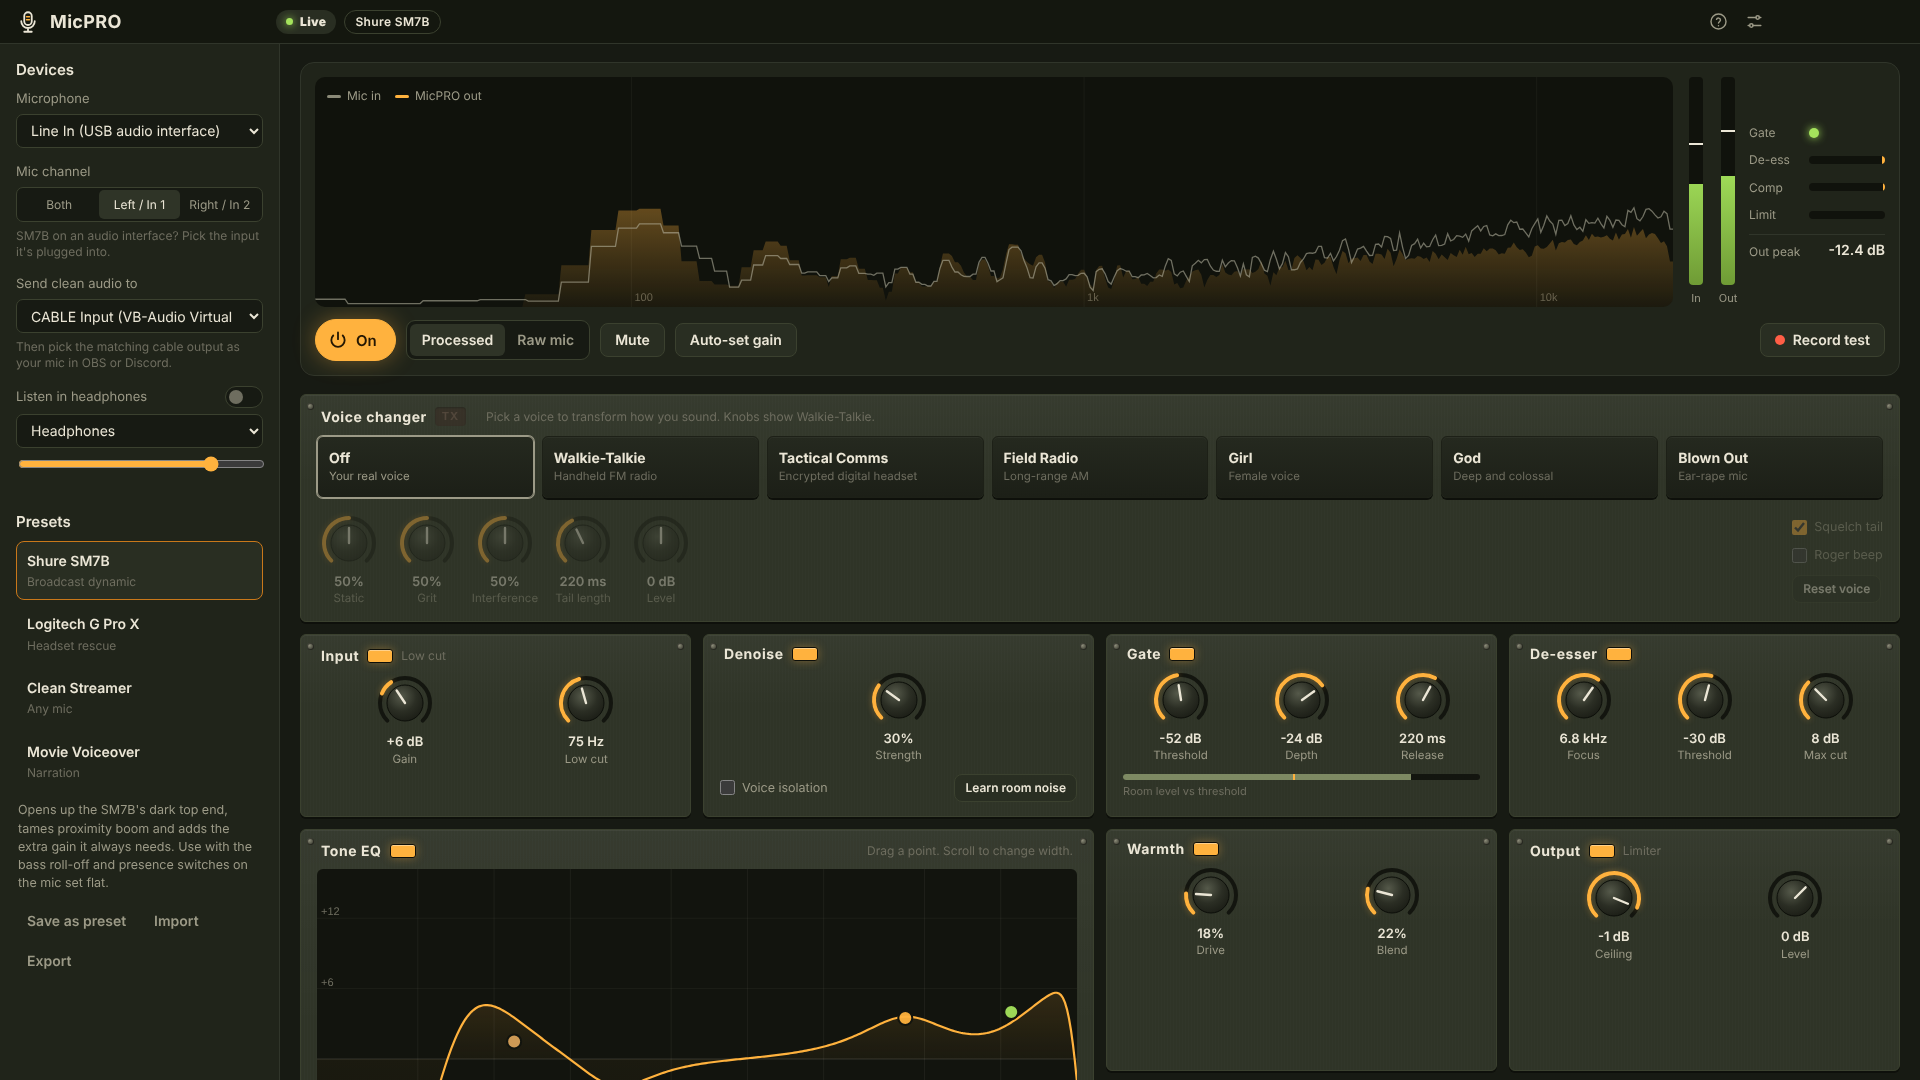
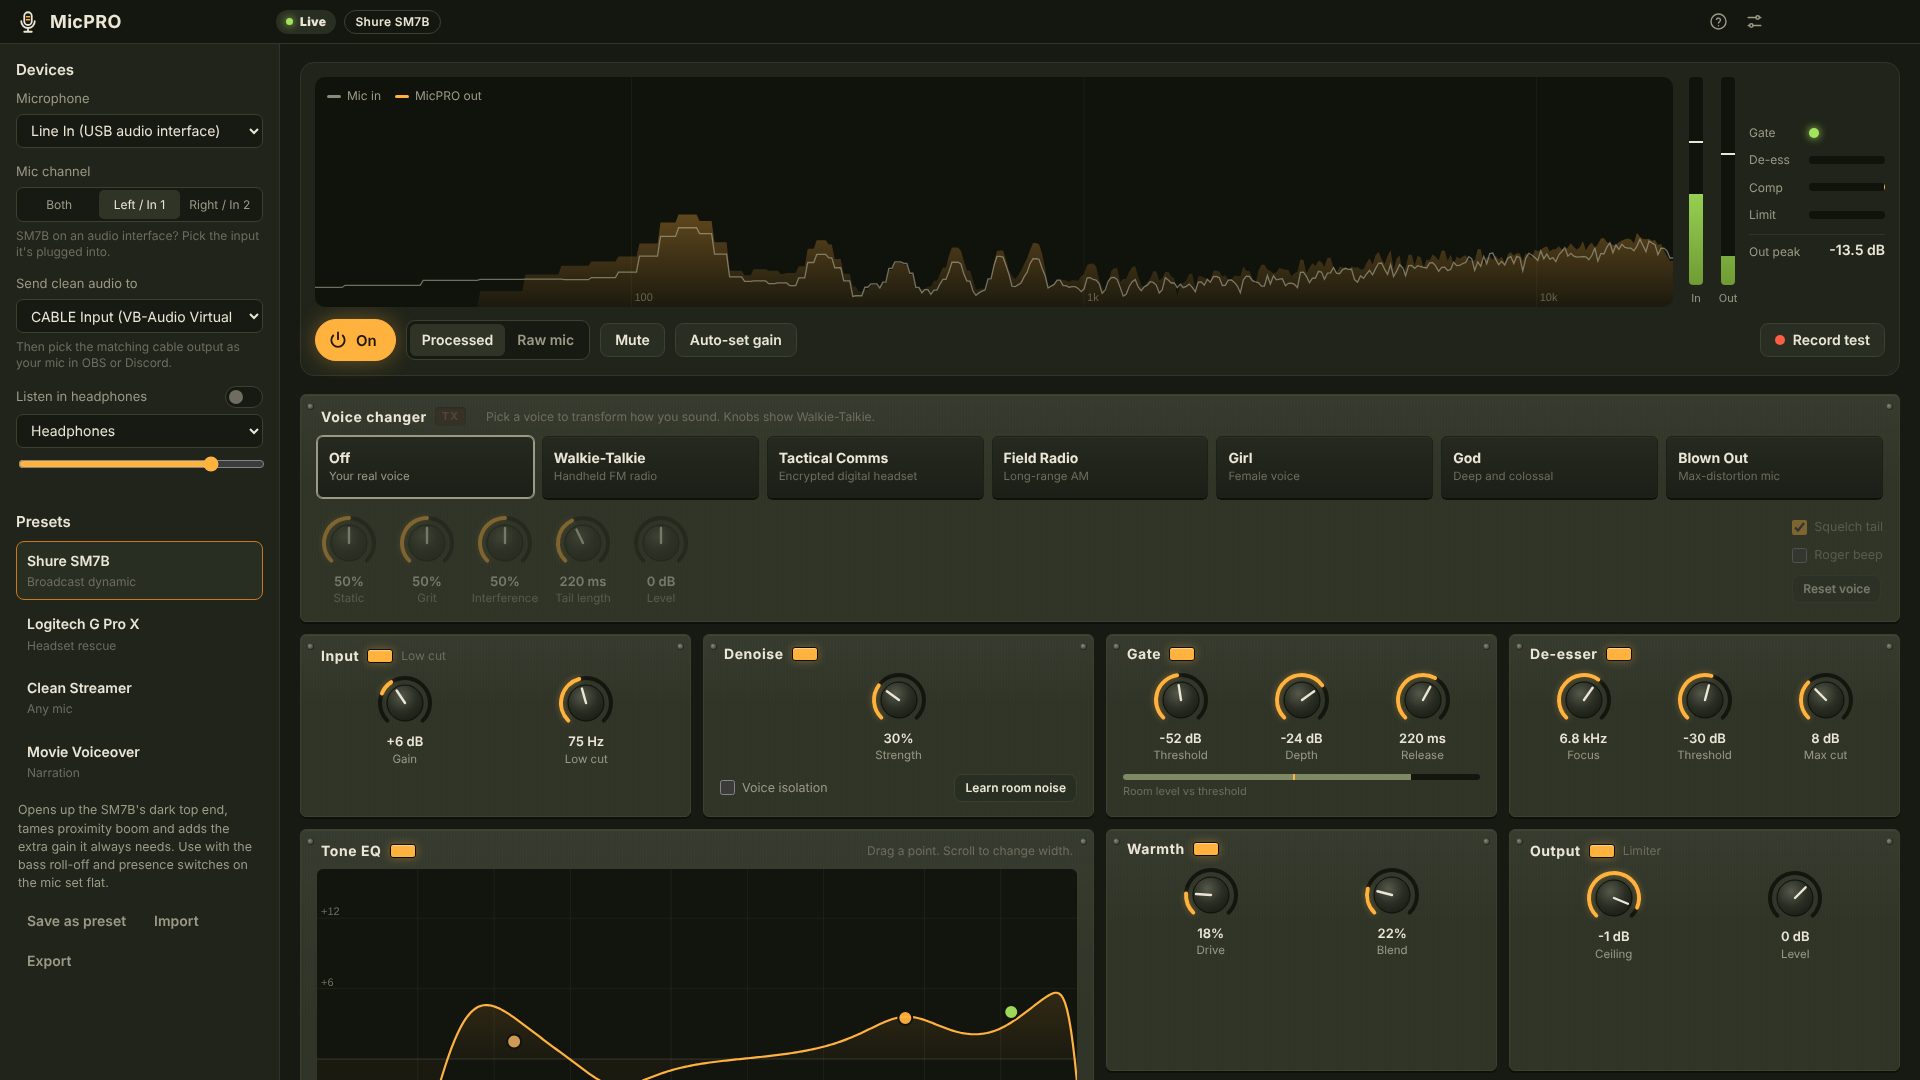
Move to Store-only distribution
- Website: all download buttons go to the Microsoft Store (STORE_URL,
  shows 'coming soon' until set); GitHub links and Mac/Linux downloads removed
- Release workflow no longer publishes free installers (manual test builds only)
- License: proprietary for future versions (1.0.0-1.3.1 remain MIT)
- Privacy policy contact points to the Store support contact
- Blown Out subtitle renamed to 'Max-distortion mic'; screenshots retaken
- STORE.md: ordered checklist for going Store-only and making the repo private

Claude-Session: https://claude.ai/code/session_01AeX4UF65ummMFYsN7wJ7bo

Changed region(s): [[0.25, 0.1528, 0.9062, 0.275], [0.875, 0.4278, 0.9062, 0.4583]]

diff --git a/index.html b/index.html
@@ -126,7 +126,8 @@
     details p { color: var(--muted); margin: 12px 0 2px; }
 
     .download { background: var(--panel); border-top: 1px solid #262a20; border-bottom: 1px solid #262a20; }
-    .dl-grid { display: grid; grid-template-columns: repeat(3, 1fr); gap: 16px; }
+    #get .dl { max-width: 520px; }
+    .store-link.soon { opacity: 0.75; cursor: default; }
     .dl { display: flex; flex-direction: column; gap: 6px; padding: 24px; border-radius: 12px; border: 1px solid var(--line); background: var(--bg); text-decoration: none; }
     .dl:hover { border-color: var(--amber-deep); }
     .dl.rec { border-color: var(--amber); }
@@ -142,7 +143,7 @@
       .chain { grid-template-columns: 1fr 1fr; }
       .chain li { border-bottom: 1px solid var(--line); }
       .chain li::after { display: none; }
-      .presets, .setup, .dl-grid, .voices { grid-template-columns: 1fr; }
+      .presets, .setup, .voices { grid-template-columns: 1fr; }
       nav .links { display: none; }
       nav .btn { margin-left: auto; }
     }
@@ -160,9 +161,8 @@
         <a href="#voices">Voice changer</a>
         <a href="#setup">Setup</a>
         <a href="#faq">FAQ</a>
-        <a href="https://github.com/g-hostproxy/MicPRO">GitHub</a>
       </div>
-      <a class="btn btn-primary" href="#download">Download</a>
+      <a class="btn btn-primary store-link" href="#get">Get MicPRO</a>
     </div>
   </nav>
 
@@ -171,13 +171,13 @@
       <h1>Make the mic you own sound like a studio.</h1>
       <p class="lede">MicPRO cleans your voice in real time before it reaches OBS, Discord or the game. Fans and keyboard noise drop out, harsh "s" sounds soften, and every callout lands at the same level. Tuned presets for the Shure SM7B and Logitech G Pro X are built in.</p>
       <div class="cta">
-        <a class="btn btn-primary" id="hero-dl" href="https://github.com/g-hostproxy/MicPRO/releases/latest/download/MicPRO-Setup.exe">
-          <svg viewBox="0 0 24 24" aria-hidden="true"><path d="M12 4v11M7 10l5 5 5-5M5 20h14" fill="none" stroke="currentColor" stroke-width="2.2" stroke-linecap="round" stroke-linejoin="round"/></svg>
-          <span>Download for Windows</span>
+        <a class="btn btn-primary store-link store-cta" href="#get">
+          <svg viewBox="0 0 24 24" aria-hidden="true"><path d="M3 5.5 10.5 4.5v7H3zM11.5 4.4 21 3v8.5h-9.5zM3 12.5h7.5v7L3 18.5zM11.5 12.5H21V21l-9.5-1.4z" fill="currentColor"/></svg>
+          <span>Get it on the Microsoft Store</span>
         </a>
         <a class="btn" href="#how">See what it does</a>
       </div>
-      <p class="alt-dl">Free and open source. Also on <a href="#download">macOS and Linux</a>. Everything runs on your PC; no account, no cloud.</p>
+      <p class="alt-dl">For Windows 10 and 11. Everything runs on your PC: no account, no cloud.</p>
     </div>
     <div>
       <div class="scope" id="scope" role="slider" tabindex="0" aria-label="Compare raw mic and MicPRO" aria-valuemin="0" aria-valuemax="100" aria-valuenow="50">
@@ -249,7 +249,7 @@
       <article class="voice"><h3>Field Radio</h3><p class="kind">Long-range AM</p><p>Boxy and buried in static, with fading, a drifting whistle and the signal breaking up.</p></article>
       <article class="voice voice-alt"><h3>Girl</h3><p class="kind">Female voice</p><p>Higher pitch and a smaller vocal tract, adjusted separately, so it reads as a different person.</p></article>
       <article class="voice voice-alt"><h3>God</h3><p class="kind">Deep and colossal</p><p>Pitched down with a sub-octave rumble, echoing through an enormous hall.</p></article>
-      <article class="voice voice-alt"><h3>Blown Out</h3><p class="kind">Ear-rape mic</p><p>Bass-boosted and clipped to the ceiling. Silent between words, brutal when you talk.</p></article>
+      <article class="voice voice-alt"><h3>Blown Out</h3><p class="kind">Max-distortion mic</p><p>Bass-boosted and clipped to the ceiling. Silent between words, brutal when you talk.</p></article>
     </div>
     <p class="more-presets">Every voice has its own knobs (pitch, formant, reverb, static and more), and a hotkey flips the voice changer on and off mid-raid.</p>
   </section>
@@ -258,22 +258,22 @@
     <h2>Set up in three steps.</h2>
     <p class="section-lede">MicPRO sends its clean audio to a virtual cable. Your apps listen to that cable instead of the raw mic.</p>
     <ol class="setup">
-      <li><h3>Install MicPRO and VB-CABLE</h3><p>Grab MicPRO below and the free <a href="https://vb-audio.com/Cable/">VB-CABLE</a> driver. Restart your PC once.</p></li>
+      <li><h3>Install MicPRO and VB-CABLE</h3><p>Get MicPRO from the Microsoft Store and the free <a href="https://vb-audio.com/Cable/">VB-CABLE</a> driver. Restart your PC once.</p></li>
       <li><h3>Route it</h3><p>In MicPRO, send clean audio to <code>CABLE Input</code>. In OBS, Discord or Tarkov, choose <code>CABLE Output</code> as your microphone.</p></li>
       <li><h3>Pick a preset and record</h3><p>Choose your mic, press Auto-set gain and talk for five seconds. Record a test take to hear raw and processed back to back.</p></li>
     </ol>
   </section>
 
-  <section class="download" id="download">
+  <section class="download" id="get">
     <div class="wrap">
-      <h2>Download MicPRO</h2>
-      <p class="section-lede">Version 1.3: lower-latency monitoring, and it remembers your devices. Free and open source under the MIT license.</p>
-      <div class="dl-grid">
-        <a class="dl" data-os="win" href="https://github.com/g-hostproxy/MicPRO/releases/latest/download/MicPRO-Setup.exe"><b>Windows</b><span>Windows 10 and 11, 64-bit installer</span><em>MicPRO-Setup.exe</em></a>
-        <a class="dl" data-os="mac" href="https://github.com/g-hostproxy/MicPRO/releases/latest/download/MicPRO-mac.dmg"><b>macOS</b><span>Apple silicon and Intel</span><em>MicPRO-mac.dmg</em></a>
-        <a class="dl" data-os="linux" href="https://github.com/g-hostproxy/MicPRO/releases/latest/download/MicPRO-linux.AppImage"><b>Linux</b><span>AppImage, most distributions</span><em>MicPRO-linux.AppImage</em></a>
-      </div>
-      <p class="alt-dl">Windows may show a SmartScreen notice because the installer isn't code-signed yet. Choose More info, then Run anyway. All builds are on the <a href="https://github.com/g-hostproxy/MicPRO/releases">releases page</a>.</p>
+      <h2>Get MicPRO</h2>
+      <p class="section-lede">Available on the Microsoft Store for Windows 10 and 11. Installs in one click, updates automatically, and no SmartScreen warnings.</p>
+      <a class="dl rec store-link" href="#get">
+        <b>Microsoft Store</b>
+        <span>Windows 10 (1809 or later) and Windows 11, 64-bit</span>
+        <em class="store-cta-text">Get it on the Microsoft Store</em>
+      </a>
+      <p class="alt-dl">To send MicPRO's voice into Discord, OBS and games, also install the free <a href="https://vb-audio.com/Cable/">VB-CABLE</a> virtual audio driver.</p>
     </div>
   </section>
 
@@ -290,21 +290,20 @@
   <footer>
     <div class="wrap">
       <span>MicPRO is an independent project and is not affiliated with Shure, Logitech or Battlestate Games.</span>
-      <span><a href="privacy.html">Privacy</a> &nbsp; <a href="https://github.com/g-hostproxy/MicPRO">Source on GitHub</a></span>
+      <a href="privacy.html">Privacy</a>
     </div>
   </footer>
 
   <script>
-    // Highlight the visitor's platform.
+    // Microsoft Store link. Paste the URL from Partner Center (Product identity > Store URL),
+    // e.g. 'https://apps.microsoft.com/detail/9XXXXXXXXXXX'. Empty = "coming soon".
+    const STORE_URL = '';
     (function () {
-      const ua = navigator.userAgent;
-      const os = /Mac/i.test(ua) ? 'mac' : /Linux/i.test(ua) && !/Android/i.test(ua) ? 'linux' : 'win';
-      const card = document.querySelector(`.dl[data-os="${os}"]`);
-      if (card) card.classList.add('rec');
-      if (os !== 'win') {
-        const hero = document.getElementById('hero-dl');
-        hero.href = card.href;
-        hero.querySelector('span').textContent = os === 'mac' ? 'Download for macOS' : 'Download for Linux';
+      for (const a of document.querySelectorAll('.store-link')) {
+        if (STORE_URL) { a.href = STORE_URL; a.target = '_blank'; a.rel = 'noopener'; continue; }
+        a.classList.add('soon');
+        if (a.classList.contains('store-cta')) a.querySelector('span').textContent = 'Coming soon to the Microsoft Store';
+        const t = a.querySelector('.store-cta-text'); if (t) t.textContent = 'Coming soon';
       }
     })();
 

diff --git a/privacy.html b/privacy.html
@@ -33,5 +33,5 @@ p,li{color:#a3a18e}strong{color:#ebe6d6}a{color:#ffb23e}.back{display:inline-blo
 <h2>Your controls</h2>
 <p>Uninstalling MicPRO removes the app and its settings. Recordings you saved stay where you put them until you delete them. You can block MicPRO&#x27;s microphone access at any time in Windows Settings &gt; Privacy &amp; security &gt; Microphone.</p>
 <h2>Contact</h2>
-<p>Questions about this policy: open an issue at <a href="https://github.com/g-hostproxy/MicPRO/issues">https://github.com/g-hostproxy/MicPRO/issues</a></p>
+<p>Questions about this policy: use the support contact on MicPRO&#x27;s Microsoft Store page.</p>
 </main></body></html>

diff --git a/app/src/renderer/voices.js b/app/src/renderer/voices.js
@@ -145,7 +145,7 @@ export const VOICES = [
   {
     id: 'loud',
     name: 'Blown Out',
-    tag: 'Ear-rape mic',
+    tag: 'Max-distortion mic',
     blurb: 'Your mic, destroyed: bass-boosted, clipped to the ceiling and crunchy. It stays silent between words. Your headphone monitor drops 12 dB while it\'s on to protect your ears.',
     controls: [
       { path: 'loudness', label: 'Loudness', min: 0, max: 100, step: 1, unit: '%' },

diff --git a/README.md b/README.md
@@ -1,7 +1,5 @@
 # MicPRO
 
-[![Total downloads](https://img.shields.io/github/downloads/g-hostproxy/MicPRO/total?label=downloads&color=ffb23e&style=for-the-badge)](https://github.com/g-hostproxy/MicPRO/releases)
-[![Latest release](https://img.shields.io/github/v/release/g-hostproxy/MicPRO?label=latest&color=a5e35c&style=for-the-badge)](https://github.com/g-hostproxy/MicPRO/releases/latest)
 [![Buy Me a Coffee](https://img.shields.io/badge/Buy%20me%20a%20coffee-support-FFDD00?style=for-the-badge&logo=buymeacoffee&logoColor=black)](https://buymeacoffee.com/g.hostproxy)
 
 Real-time microphone enhancement for streamers and video creators. MicPRO sits between your mic and OBS / Discord / the game and runs your voice through a broadcast-style chain:
@@ -51,7 +49,7 @@ npm run dist:win   # build an installer into app/dist
 
 ## Releases
 
-Bump `version` in `app/package.json` and push to `main`. `.github/workflows/release.yml` builds Windows, macOS and Linux installers and publishes them as the matching `vX.Y.Z` GitHub release. You can also run it by hand from the Actions tab. The download buttons on the website point at `releases/latest`, so they update automatically.
+MicPRO is sold on the Microsoft Store (see `STORE.md`). To ship an update, bump `version` in `app/package.json`, run the **Build Microsoft Store package** workflow, and upload the new `.appx` in Partner Center. The **Build test installers** workflow builds unsigned test installers as run artifacts; it doesn't publish anything.
 
 ## Microsoft Store
 
@@ -59,7 +57,7 @@ Bump `version` in `app/package.json` and push to `main`. `.github/workflows/rele
 
 ## Website
 
-`index.html` at the repo root is the download page. Serve it with GitHub Pages (Settings → Pages → Deploy from branch → `main` / root).
+`index.html` (with `privacy.html` and `assets/`) is the product page. Set `STORE_URL` near the bottom of `index.html` once the Store listing is live. GitHub Pages can serve it from this repo only while the repo is public or on a paid GitHub plan; otherwise host those files from a separate public repo.
 
 ## Project layout
 
@@ -77,10 +75,10 @@ app/
     dsp/processors.js      AudioWorklet DSP: denoise, gate, de-esser, radio voice, recorder
 ```
 
-MIT licensed. Not affiliated with Shure, Logitech or Battlestate Games.
+Proprietary. All rights reserved (see `LICENSE`). Not affiliated with Shure, Logitech or Battlestate Games.
 
 ## Support MicPRO
 
-MicPRO is free and open source. If it made your mic sound better, you can support development here:
+If MicPRO made your mic sound better, you can support development here:
 
 <a href="https://buymeacoffee.com/g.hostproxy"><img src="https://img.shields.io/badge/Buy%20me%20a%20coffee-FFDD00?style=for-the-badge&logo=buymeacoffee&logoColor=black" alt="Buy Me a Coffee" height="40"></a>

diff --git a/STORE.md b/STORE.md
@@ -32,9 +32,9 @@ You don't need a code-signing certificate, because Microsoft signs Store package
 
 ### Properties
 - **Category:** Music (secondary: Utilities & tools)
-- **Privacy policy URL:** `https://g-hostproxy.github.io/MicPRO/privacy.html` (needs GitHub Pages on), or `https://github.com/g-hostproxy/MicPRO/blob/main/PRIVACY.md`
-- **Website:** `https://github.com/g-hostproxy/MicPRO`
-- **Support contact:** `https://github.com/g-hostproxy/MicPRO/issues`
+- **Privacy policy URL:** the public address of `privacy.html` (for example `https://g-hostproxy.github.io/MicPRO/privacy.html`). It must stay reachable after the repo goes private; see "Going Store-only" below.
+- **Website:** the public address of `index.html`.
+- **Support contact:** an email address you're happy to show publicly. The privacy policy tells people to use this contact.
 - **System requirements:** Microphone required. Hardware: x64.
 
 ### Age ratings
@@ -100,6 +100,20 @@ Paste this:
 ## 5. Submit
 
 Select **Submit for certification**. Reviews usually take a few business days. If Microsoft asks about the VB-CABLE dependency, point to the certification notes above: MicPRO does not install or bundle the driver.
+
+## Going Store-only (private code)
+
+Do these in order, so there's never a moment with no way to get MicPRO:
+
+1. **Wait until the Store listing is live.** In Partner Center, under Product identity, copy the **Store URL** (`https://apps.microsoft.com/detail/...`).
+2. **Set the Store link on the website:** put that URL in `STORE_URL` near the bottom of `index.html` and push. Every Get MicPRO button then opens the Store.
+3. **Keep the website public.** GitHub Pages doesn't serve private repos on a free GitHub plan. Either:
+   - create a small public repo (for example `micpro-site`) with `index.html`, `privacy.html` and `assets/`, and turn on Pages there, or
+   - upgrade to GitHub Pro, which keeps Pages working from this private repo.
+   If the site's address changes, update the privacy policy URL and website in Partner Center.
+4. **Make this repo private:** GitHub → MicPRO → Settings → General → Danger Zone → Change visibility → Private. The old free releases (v1.0–v1.3.1) stop being downloadable from GitHub at the same moment.
+
+Free installers are no longer published: the release workflow now only builds test installers on demand.
 
 ## Updating later
 

diff --git a/PRIVACY.md b/PRIVACY.md
@@ -32,4 +32,4 @@ Uninstalling MicPRO removes the app and its settings. Recordings you saved stay 
 
 ## Contact
 
-Questions about this policy: open an issue at https://github.com/g-hostproxy/MicPRO/issues
+Questions about this policy: use the support contact on MicPRO's Microsoft Store page.
